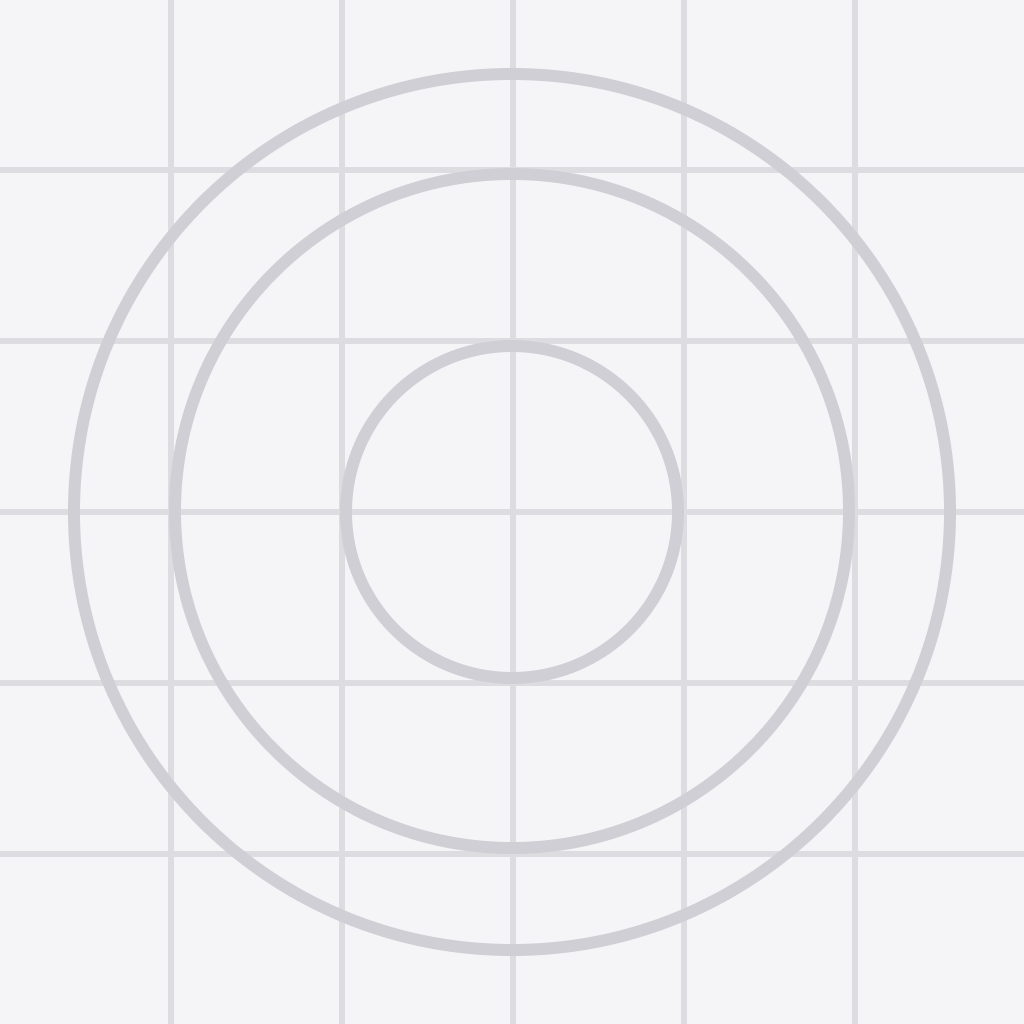
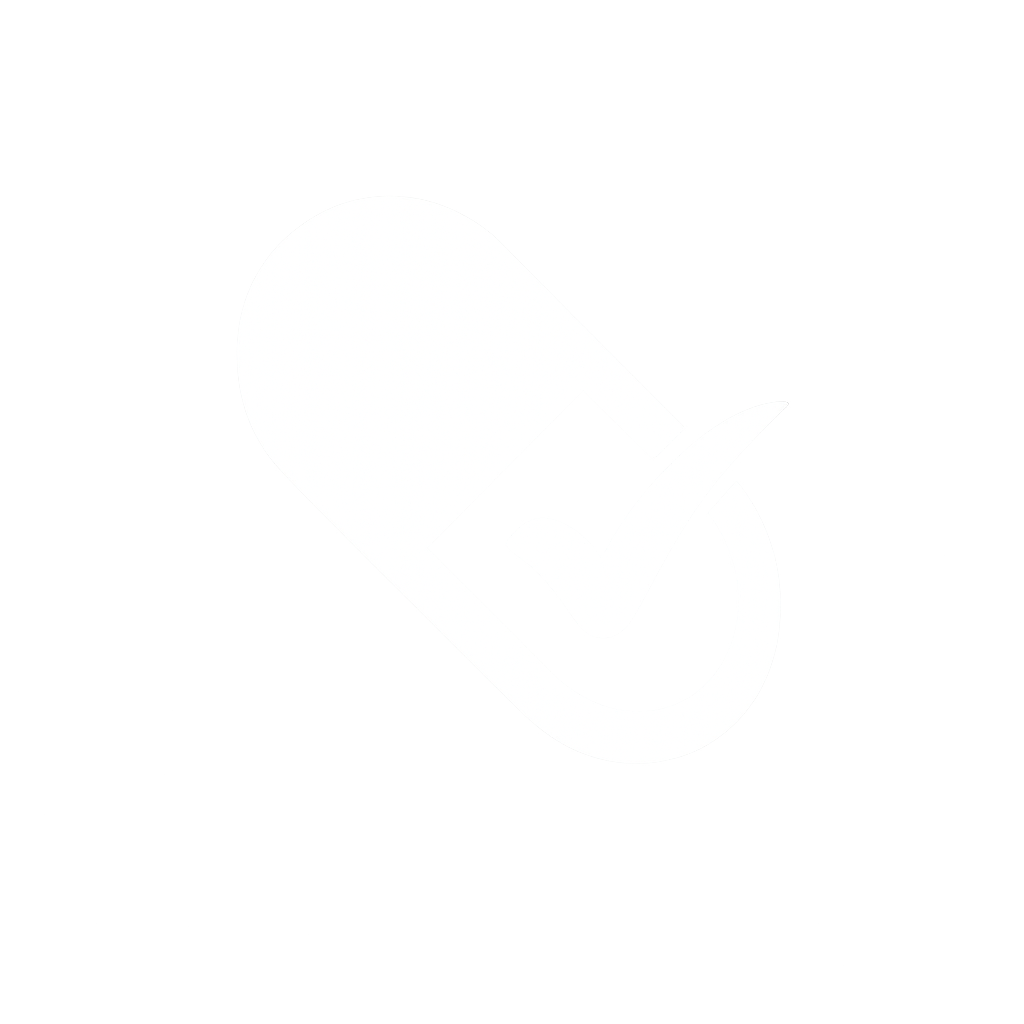
[#89] Feat : UI 개선 - 더보기 기능, 홈 화면 디자인, 알림 아이콘 (#90)
* [#89] Feat : ExpandableText 공용 컴포넌트 생성

* [#89] Feat : 약 등록 페이지에 ExpandableText 적용 및 파일명 변경

* [#89] Feat : 홈 화면 복용 요약 카드 제거

* [#89] Feat : 홈 화면 날짜 스크롤 디자인 변경

* Revert "[#89] Feat : 약 등록 페이지에 ExpandableText 적용 및 파일명 변경"

This reverts commit 552ed090fbe3f224cbea061606cffedce547d079.

* [#89] Feat : UI 개선 - 더보기 기능, 홈 화면 디자인, 알림 아이콘

- ExpandableText 컴포넌트 측정 로직 개선
- 약 검색/등록 페이지 헤더 텍스트 변경
- 홈 화면 헤더-날짜 스크롤 간격 축소
- 알림 아이콘 이미지 교체 (크기 확대)

diff --git a/components/ui/ExpandableText.tsx b/components/ui/ExpandableText.tsx
@@ -1,0 +1,86 @@
+import React, { useState } from 'react';
+import { View, TouchableOpacity, LayoutAnimation, Platform, UIManager, Text, StyleSheet } from 'react-native';
+import { Typography } from './Typography';
+import { Colors } from '../../constants';
+
+// Android에서 LayoutAnimation 활성화
+if (Platform.OS === 'android' && UIManager.setLayoutAnimationEnabledExperimental) {
+  UIManager.setLayoutAnimationEnabledExperimental(true);
+}
+
+interface ExpandableTextProps {
+  text: string;
+  numberOfLines?: number;
+}
+
+export function ExpandableText({ text, numberOfLines = 3 }: ExpandableTextProps) {
+  const [expanded, setExpanded] = useState(false);
+  const [shouldShowButton, setShouldShowButton] = useState(false);
+  const [measured, setMeasured] = useState(false);
+
+  const handleTextLayout = (e: any) => {
+    if (!measured) {
+      // 첫 렌더링에서 실제 줄 수 측정
+      const actualLines = e.nativeEvent.lines.length;
+      if (actualLines > numberOfLines) {
+        setShouldShowButton(true);
+      }
+      setMeasured(true);
+    }
+  };
+
+  const toggleExpanded = () => {
+    LayoutAnimation.configureNext(LayoutAnimation.Presets.easeInEaseOut);
+    setExpanded(!expanded);
+  };
+
+  // 첫 렌더링에서는 numberOfLines 제한 없이 측정
+  if (!measured) {
+    return (
+      <View>
+        <Text
+          style={[styles.text, { opacity: 0, position: 'absolute' }]}
+          onTextLayout={handleTextLayout}
+        >
+          {text}
+        </Text>
+        <Text
+          style={styles.text}
+          numberOfLines={numberOfLines}
+        >
+          {text}
+        </Text>
+      </View>
+    );
+  }
+
+  return (
+    <View>
+      <Text
+        style={styles.text}
+        numberOfLines={expanded ? undefined : numberOfLines}
+      >
+        {text}
+      </Text>
+      {shouldShowButton && (
+        <TouchableOpacity onPress={toggleExpanded} style={styles.button}>
+          <Typography variant="bodySmall" color={Colors.primary}>
+            {expanded ? '접기' : '더보기'}
+          </Typography>
+        </TouchableOpacity>
+      )}
+    </View>
+  );
+}
+
+const styles = StyleSheet.create({
+  text: {
+    lineHeight: 22,
+    fontSize: 14,
+    color: Colors.text,
+  },
+  button: {
+    marginTop: 8,
+    paddingVertical: 4,
+  },
+});

diff --git a/app/medication/[id].tsx b/app/medication/[id].tsx
@@ -1,59 +1,12 @@
 import React, { useEffect, useState } from 'react';
-import { View, StyleSheet, ScrollView, Alert, ActivityIndicator, TouchableOpacity, LayoutAnimation, Platform, UIManager, Text } from 'react-native';
+import { View, StyleSheet, ScrollView, Alert, ActivityIndicator } from 'react-native';
 import { SafeAreaView, useSafeAreaInsets } from 'react-native-safe-area-context';
 import { useLocalSearchParams, router } from 'expo-router';
 import { Ionicons } from '@expo/vector-icons';
-import { Button, Card, Typography } from '../../components/ui';
+import { Button, Card, Typography, ExpandableText } from '../../components/ui';
 import { Colors } from '../../constants';
 import { useMedicationStore } from '../../stores';
 import { Medication, TIMING_LABELS, MedicationTiming } from '../../types';
-
-// Android에서 LayoutAnimation 활성화
-if (Platform.OS === 'android' && UIManager.setLayoutAnimationEnabledExperimental) {
-  UIManager.setLayoutAnimationEnabledExperimental(true);
-}
-
-// 더보기/접기 가능한 텍스트 컴포넌트
-interface ExpandableTextProps {
-  text: string;
-  numberOfLines?: number;
-}
-
-function ExpandableText({ text, numberOfLines = 3 }: ExpandableTextProps) {
-  const [expanded, setExpanded] = useState(false);
-  const [shouldShowButton, setShouldShowButton] = useState(false);
-
-  const handleTextLayout = (e: any) => {
-    // 텍스트가 numberOfLines를 초과하는지 확인
-    if (!shouldShowButton && e.nativeEvent.lines.length > numberOfLines) {
-      setShouldShowButton(true);
-    }
-  };
-
-  const toggleExpanded = () => {
-    LayoutAnimation.configureNext(LayoutAnimation.Presets.easeInEaseOut);
-    setExpanded(!expanded);
-  };
-
-  return (
-    <View>
-      <Text
-        style={styles.descriptionText}
-        numberOfLines={expanded ? undefined : numberOfLines}
-        onTextLayout={handleTextLayout}
-      >
-        {text}
-      </Text>
-      {shouldShowButton && (
-        <TouchableOpacity onPress={toggleExpanded} style={styles.expandButton}>
-          <Typography variant="bodySmall" color={Colors.primary}>
-            {expanded ? '접기' : '더보기'}
-          </Typography>
-        </TouchableOpacity>
-      )}
-    </View>
-  );
-}
 
 export default function MedicationDetailScreen() {
   const { id } = useLocalSearchParams<{ id: string }>();
@@ -362,15 +315,6 @@ const styles = StyleSheet.create({
   },
   sectionTitle: {
     marginBottom: 16,
-  },
-  descriptionText: {
-    lineHeight: 22,
-    fontSize: 14,
-    color: Colors.text,
-  },
-  expandButton: {
-    marginTop: 8,
-    paddingVertical: 4,
   },
   cautionContainer: {
     marginTop: 12,

diff --git a/app/(tabs)/index.tsx b/app/(tabs)/index.tsx
@@ -433,7 +433,7 @@ export default function HomeScreen() {
         </View>
 
         {/* 주간 달력 스트립 */}
-        <Card style={styles.weekStripCard} variant="elevated">
+        <View style={styles.weekStrip}>
           <FlatList
             ref={weekListRef}
             data={weekDates}
@@ -448,7 +448,8 @@ export default function HomeScreen() {
             })}
             onScrollToIndexFailed={() => {}}
           />
-        </Card>
+          <View style={styles.weekStripDivider} />
+        </View>
 
         {/* 달력 모달 */}
         <Modal
@@ -572,19 +573,6 @@ export default function HomeScreen() {
             </TouchableOpacity>
           </TouchableOpacity>
         </Modal>
-
-        {/* 선택된 날짜 정보 */}
-        {selectedDaySummary && selectedDaySummary.status !== 'NONE' && (
-          <Card style={styles.summaryCard}>
-            <Typography variant="bodySmall" color={Colors.textSecondary}>
-              {selectedDate === today ? '오늘' : selectedDate.replace(/-/g, '.')}
-            </Typography>
-            <Typography variant="body">
-              {selectedDaySummary.totalTaken}/{selectedDaySummary.totalScheduled}개 복용
-              {selectedDaySummary.status === 'COMPLETE' && ' ✓'}
-            </Typography>
-          </Card>
-        )}
 
         {/* 복약 스케줄 */}
         <View style={styles.scheduleSection}>
@@ -739,7 +727,7 @@ const styles = StyleSheet.create({
     flexDirection: 'row',
     justifyContent: 'space-between',
     alignItems: 'center',
-    marginBottom: 16,
+    marginBottom: 4,
   },
   headerRight: {
     flexDirection: 'row',
@@ -755,10 +743,14 @@ const styles = StyleSheet.create({
   calendarIconButton: {
     padding: 4,
   },
-  weekStripCard: {
+  weekStrip: {
     marginBottom: 16,
-    paddingVertical: 12,
-    paddingHorizontal: 0,
+    paddingVertical: 8,
+  },
+  weekStripDivider: {
+    height: 1,
+    backgroundColor: Colors.divider,
+    marginTop: 8,
   },
   weekDayItem: {
     width: DAY_ITEM_WIDTH,
@@ -829,13 +821,6 @@ const styles = StyleSheet.create({
     width: 12,
     height: 12,
     borderRadius: 6,
-  },
-  summaryCard: {
-    marginBottom: 16,
-    padding: 12,
-    flexDirection: 'row',
-    justifyContent: 'space-between',
-    alignItems: 'center',
   },
   scheduleSection: {
     marginBottom: 16,

diff --git a/app/medication/_layout.tsx b/app/medication/_layout.tsx
@@ -23,6 +23,18 @@ export default function MedicationLayout() {
         }}
       />
       <Stack.Screen
+        name="search"
+        options={{
+          title: '약 검색',
+        }}
+      />
+      <Stack.Screen
+        name="register"
+        options={{
+          title: '약 추가',
+        }}
+      />
+      <Stack.Screen
         name="[id]"
         options={{
           title: '약 상세',

diff --git a/app/medication/register.tsx b/app/medication/register.tsx
@@ -15,8 +15,7 @@ import { SafeAreaView } from 'react-native-safe-area-context';
 import { router, useLocalSearchParams } from 'expo-router';
 import { Ionicons } from '@expo/vector-icons';
 import DateTimePicker from '@react-native-community/datetimepicker';
-import { Typography, Card, Button } from '../../components/ui';
-import { DrugTypeBadge } from '../../components/ui';
+import { Typography, Card, Button, ExpandableText, DrugTypeBadge } from '../../components/ui';
 import { Colors, DEFAULT_TIMES } from '../../constants';
 import { drugService } from '../../services/drug';
 import { medicationService } from '../../services';
@@ -186,9 +185,7 @@ export default function MedicationRegisterScreen() {
                 <Typography variant="caption" color={Colors.textTertiary}>
                   효능/효과
                 </Typography>
-                <Typography variant="bodySmall" color={Colors.textSecondary} numberOfLines={3}>
-                  {drug.efficacy}
-                </Typography>
+                <ExpandableText text={drug.efficacy} numberOfLines={3} />
               </View>
             )}
           </Card>

diff --git a/components/ui/index.ts b/components/ui/index.ts
@@ -11,3 +11,4 @@ export { RecentSearchList } from './RecentSearchList';
 export { TermsModal } from './TermsModal';
 export type { TermsType } from './TermsModal';
 export { AiConsentModal } from './AiConsentModal';
+export { ExpandableText } from './ExpandableText';